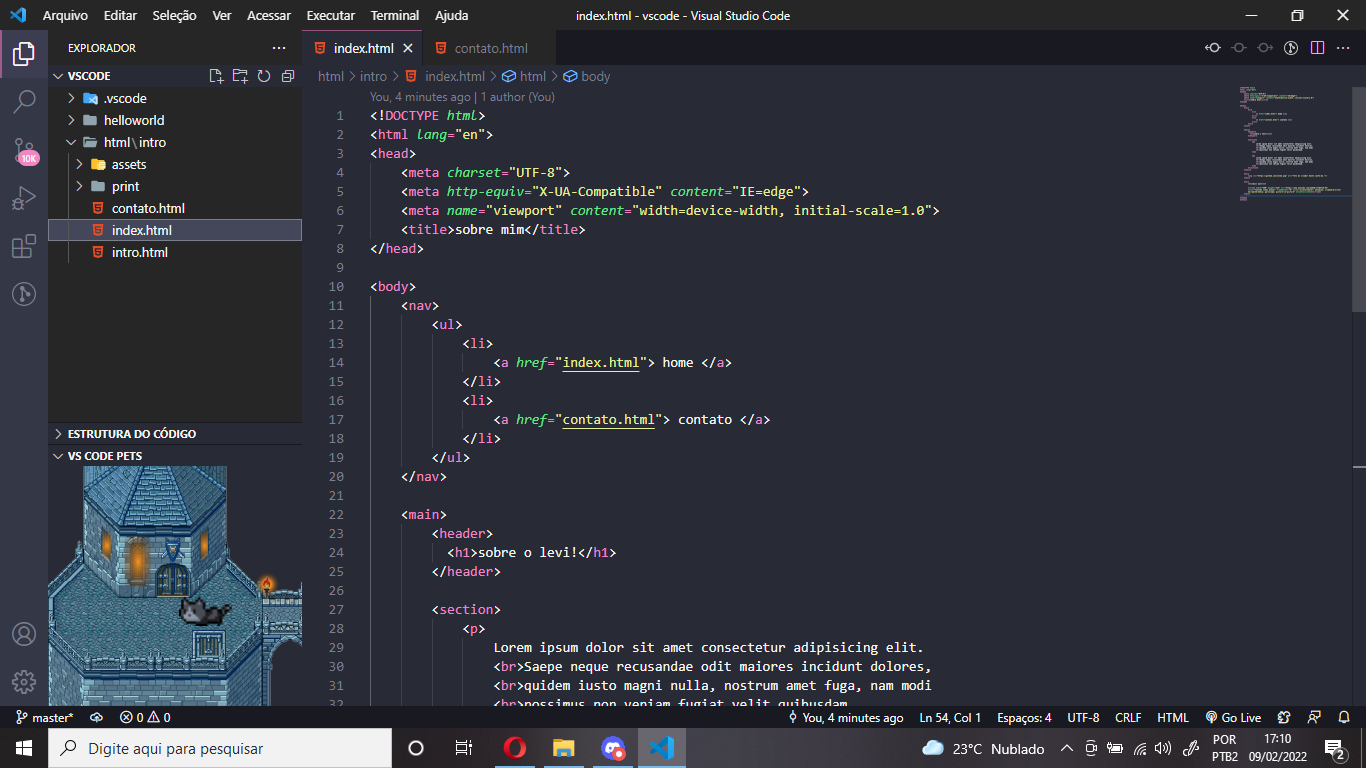
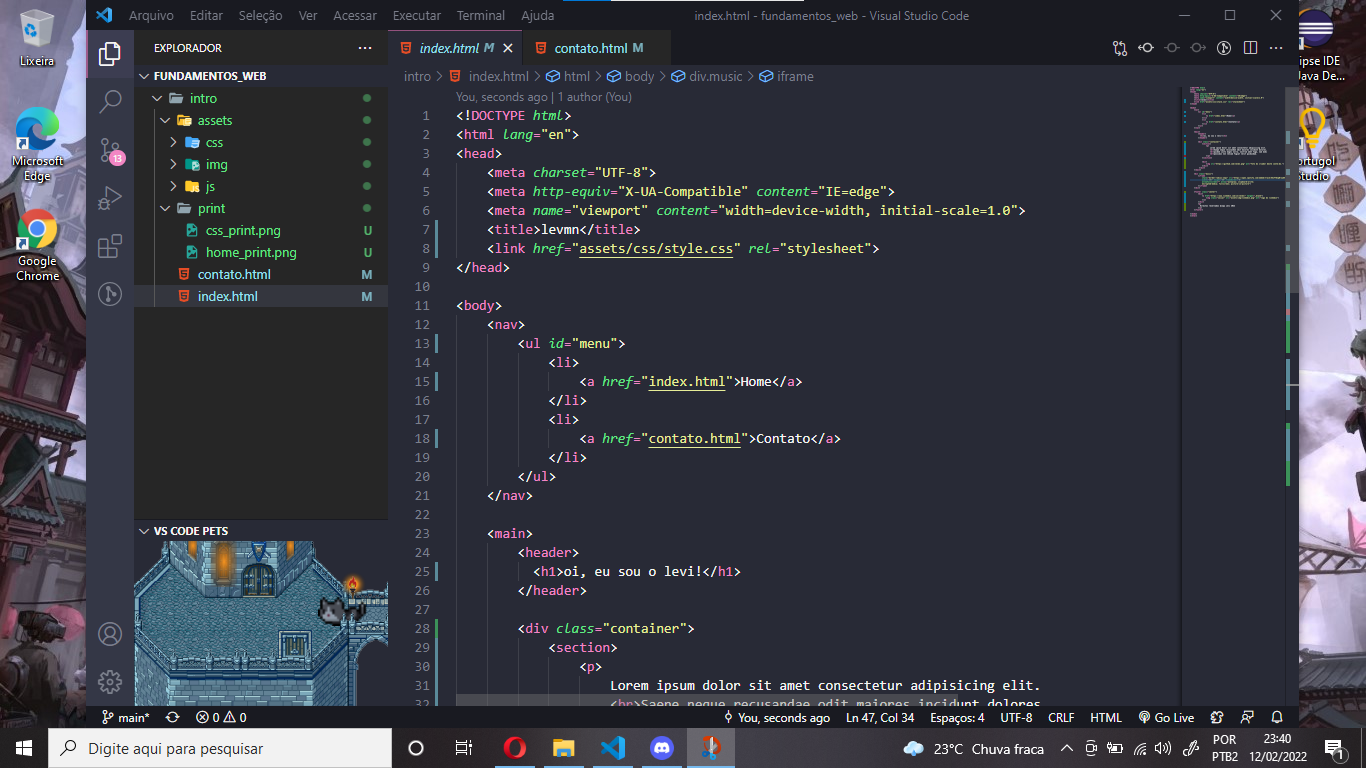
exercícios fundamentos web finalizados

diff --git a/intro/contato.html b/intro/contato.html
@@ -5,41 +5,71 @@
     <meta http-equiv="X-UA-Compatible" content="IE=edge">
     <meta name="viewport" content="width=device-width, initial-scale=1.0">
     <title>contato</title>
+    <link href="assets/css/style-contato.css" rel="stylesheet">
 </head>
 
 <body>
     <nav>
-        <ul>
+        <ul id="menu">
             <li>
-                <a href="index.html"> home</a>
+                <a href="index.html">Home</a>
             </li>
             <li>
-                <a href="contato.html"> contato</a>
+                <a href="contato.html">Contato</a>
             </li>
         </ul>
     </nav>
 
-    <main>
-        <header>
-            <h1>entre em contato comigo:</h1>
-        </header>
+    <section class="mb">
+        <main>
+            <header class="center">
+                <h1>Entre em contato comigo:</h1>
+            </header>
 
-        <form>
-            <label for="nome"> nome: </label><br/>
-            <input type="text" id="nome"/>
-            <br/>
-            <br/>
-            <label for="email"> e-mail: </label><br/>
-            <input type="email" id="email"/>
-            <br/>
-            <br/>
-            <label for="assunto"> assunto: </label><br/>
-            <textarea name="assunto" id="assuunto" cols="60" rows="5"></textarea>
-            <br/>
-            <br/>
-            <button> enviar </button>
-        </form>
-    </main>
+            <form class="p-30">
+                <label for="nome">Nome:</label><br/>
+                <input type="text" id="nome" onkeyup="validaNome()"/>
+                <div id="txtNome"></div>
+                <br/>
+                <label for="email">E-mail:</label><br/>
+                <input type="email" id="email" onkeyup="validaEmail()"/>
+                <div id="txtEmail"></div>
+                <br/>
+                <label for="assunto">Assunto:</label><br/>
+                <textarea name="assunto" id="assunto" cols="60" rows="5"
+                onkeyup="validaAssunto()"></textarea>
+                <div id="txtAssunto"></div>
+                <br/>
+                <br/>
+                <button onclick="enviar()">Enviar</button>
+            </form>
+        </main>
+
+        <article class="p-30">
+            <iframe src="https://www.google.com/maps/embed?pb=!1m18!1m12!1m3!1d2501.1810796178493!2d-1.8284036848068235!3d51.178885342491206!2m3!1f0!2f0!3f0!3m2!1i1024!2i768!4f13.1!3m3!1m2!1s0x4873e63b850af611%3A0x979170e2bcd3d2dd!2sStonehenge!5e0!3m2!1spt-BR!2sbr!4v1644600637644!5m2!1spt-BR!2sbr" 
+            width="400" height="300" 
+            style="border:0;" allowfullscreen="" 
+            loading="lazy" onmousemove="mapaZoom()" 
+            onmouseout="mapaNormal()" id="mapa"></iframe>
+
+            <div>    
+                <p>Stonehenge, Salisbury - Reino Unido</p>
+            </div>
+         </article>
+    </section>
+
+    k<footer class="center">
+        <div>
+            <a href="https://www.linkedin.com/in/levmn/" target="_blank">
+                <img class="social" src="assets/img/linkedin.png" alt="logo do linkedin">
+            </a>   
+        </div>
+        <p>
+          Direitos reservados &copy Levi 2022 
+        </p>
+    </footer>
+
+    <script type="text/javascript" src="./assets/js/script.js"></script> 
 
 </body>
 </html>

diff --git a/intro/index.html b/intro/index.html
@@ -4,53 +4,62 @@
     <meta charset="UTF-8">
     <meta http-equiv="X-UA-Compatible" content="IE=edge">
     <meta name="viewport" content="width=device-width, initial-scale=1.0">
-    <title>sobre mim</title>
+    <title>levmn</title>
+    <link href="assets/css/style.css" rel="stylesheet">
 </head>
 
 <body>
     <nav>
-        <ul>
+        <ul id="menu">
             <li>
-                <a href="index.html"> home </a>
+                <a href="index.html">Home</a>
             </li>
             <li>
-                <a href="contato.html"> contato </a>
+                <a href="contato.html">Contato</a>
             </li>
         </ul>
     </nav>
 
     <main>
         <header>
-          <h1>sobre o levi!</h1>
+          <h1>oi, eu sou o levi!</h1>
         </header>
 
-        <section>
-            <p>
-                Lorem ipsum dolor sit amet consectetur adipisicing elit. 
-                <br>Saepe neque recusandae odit maiores incidunt dolores, 
-                <br>quidem iusto magni nulla, nostrum amet fuga, nam modi 
-                <br>possimus non veniam fugiat velit quibusdam.
-            </p>
+        <div class="container">
+            <section>
+                <p>
+                    Lorem ipsum dolor sit amet consectetur adipisicing elit. 
+                    <br>Saepe neque recusandae odit maiores incidunt dolores, 
+                    <br>quidem iusto magni nulla, nostrum amet fuga, nam modi 
+                    <br>possimus non veniam fugiat velit quibusdam.
+                </p>
+            </section>
 
-            <p>
-                Lorem ipsum dolor sit amet consectetur adipisicing elit. 
-                <br>Saepe neque recusandae odit maiores incidunt dolores, 
-                <br>quidem iusto magni nulla, nostrum amet fuga, nam modi 
-                <br>possimus non veniam fugiat velit quibusdam.
-            </p>
-        </section>
+            <div>
+                <img src="https://github.com/levmn.png" alt="foto do criador deste conteúdo.">
+            </div>
+         </div>
     </main>
-    
-    <div>
-        <img src="https://github.com/levmn.png" alt="foto do criador deste conteúdo."/>
+
+    <div class="music">
+        <iframe 
+            style="border-radius:12px" src="https://open.spotify.com/embed/track/5SxY7UJqBroyU5I5iSJpzo?utm_source=generator&theme=0" 
+            width="30%" height="80" frameBorder="0" 
+            allowfullscreen="" allow="autoplay; clipboard-write; 
+            encrypted-media; fullscreen; picture-in-picture">
+        </iframe>
     </div>
 
-    <div>
-        <h3>chill out</h3>
-
-        <iframe width="560" height="315" src="https://www.youtube.com/embed/lttQ47yZ-5A" 
-        title="YouTube video player" frameborder="0" allow="accelerometer; autoplay; clipboard-write; encrypted-media; gyroscope; picture-in-picture" allowfullscreen></iframe>
-    </div>
+    <footer class="center">
+        <div>
+            <a href="https://www.linkedin.com/in/levmn/" target="_blank">
+                <img class="social" src="assets/img/linkedin.png" alt="logo do linkedin">
+            </a>   
+        </div>
+        <p>
+          Direitos reservados &copy Levi 2022 
+        </p>
+    </footer>
 
 </body>
 </html>

diff --git a/intro/assets/js/script.js b/intro/assets/js/script.js
@@ -1,0 +1,80 @@
+let nome = window.document.getElementById("nome")
+let email = document.getElementById("email")
+let assunto = document.getElementById("assunto")
+let nomeOk = false
+let emailOk = false
+let assuntoOk = false
+let mapa = document.querySelector("#mapa")
+
+function envio(){
+    if(nome.value != "" && email.value != "" && assunto.value != ""){
+        alert("Oi, "+nome.value+". Seu formulário foi enviado!")
+    }else{
+        alert("É necessário que todos os campos sejam preenchidos!")
+    }
+}
+
+nome.style.width = '100%';
+email.style.width = '100%';
+assunto.style.width = '100%';
+
+function validaNome(){
+    let txtNome = document.querySelector("#txtNome")
+    if(nome.value.length < 3){
+       txtNome.innerHTML = "nome inválido."
+       txtNome.style.color = "grey"
+       txtNome.style.fontSize = "12px"
+    }else{
+        txtNome.innerHTML = "nome válido."
+        txtNome.style.color = "green"
+        txtNome.style.fontSize = "12px"
+        nomeOk = true
+    }
+}
+
+function validaEmail(){
+    let txtEmail = document.querySelector("#txtEmail")
+    if(email.value.indexOf("@") == -1 || email.value.indexOf(".") == -1){
+       txtEmail.innerHTML = "e-mail inválido."
+       txtEmail.style.color = "grey"
+       txtEmail.style.fontSize = "12px"
+
+    }else{
+        txtEmail.innerHTML = "e-mail válido."
+        txtEmail.style.color = "green"
+        txtEmail.style.fontSize = "12px"
+        emailOk = true
+    }
+}
+
+function validaAssunto(){
+    let txtAssunto = document.querySelector("#txtAssunto")
+    if(assunto.value.length >= 100){
+        txtAssunto.innerHTML = "o campo assunto tem o limite de 100 caracteres."
+        txtAssunto.style.color = "grey"
+        txtAssunto.style.fontSize = "12px"
+        txtAssunto.style.display = "block"
+        assuntoOk = false
+    }else{
+        txtAssunto.style.display = "none"
+        assuntoOk = true
+    }
+}
+
+function enviar(){
+    if(nomeOk == true && emailOk == true && assuntoOk == true){
+        alert("Oi, "+nome.value+". Seu formulário foi enviado com sucesso!")
+    }else{
+        alert("Preencha o formulário corretamente antes de enviar...")
+    }
+}
+
+function mapaZoom(){
+    mapa.style.width='410px'
+    mapa.style.height='310px'
+}
+
+function mapaNormal(){
+    mapa.style.width='400px'
+    mapa.style.height='300px'
+}

diff --git a/intro/assets/css/style.css b/intro/assets/css/style.css
@@ -1,0 +1,52 @@
+/*estilo da index*/
+
+*{
+    margin: 0;
+    padding: 0;
+}
+
+#menu li{
+    display: inline-block;
+    padding: 20px;
+}
+
+#menu li a{
+    text-decoration: none;
+    color: black;
+    font-weight: bold;
+    text-transform: uppercase;
+}
+
+#menu li a:hover{
+    color: #69814d;
+}
+
+header{
+    text-align: center;
+}
+
+.container{
+    display: flex;
+    flex-flow: row;
+    justify-content: center;
+    align-items: center;
+    margin-bottom: 30px;
+}
+
+body{
+    font-family: open sans, sans-serif;    
+}
+
+.music{
+    text-align: center;
+    margin-bottom: 30px;
+}
+
+.social{
+    width: 30px;
+    margin: 20px;
+}
+
+.center{
+    text-align: center;
+}

diff --git a/intro/assets/css/style-contato.css b/intro/assets/css/style-contato.css
@@ -1,0 +1,52 @@
+/*estilo da contato*/
+
+*{
+    margin: 0;
+    padding: 0;
+}
+
+#menu li{
+    display: inline-block;
+    padding: 20px;
+}
+
+#menu li a{
+    text-decoration: none;
+    color: black;
+    font-weight: bold;
+    text-transform: uppercase;
+}
+
+#menu li a:hover{
+    color: #69814d;
+}
+
+body{
+    font-family: open sans, sans-serif;    
+}
+
+.center{
+    text-align: center;
+}
+
+section{
+    display: flex;
+    flex-flow: row;
+    justify-content: center;
+    align-items: center;
+    margin-bottom: 50px;
+}
+
+.p-30{
+    padding: 30px;
+}
+
+.mb{
+    margin-bottom: 100px;
+}
+
+.social{
+    width: 30px;
+    margin: 20px;
+}
+
